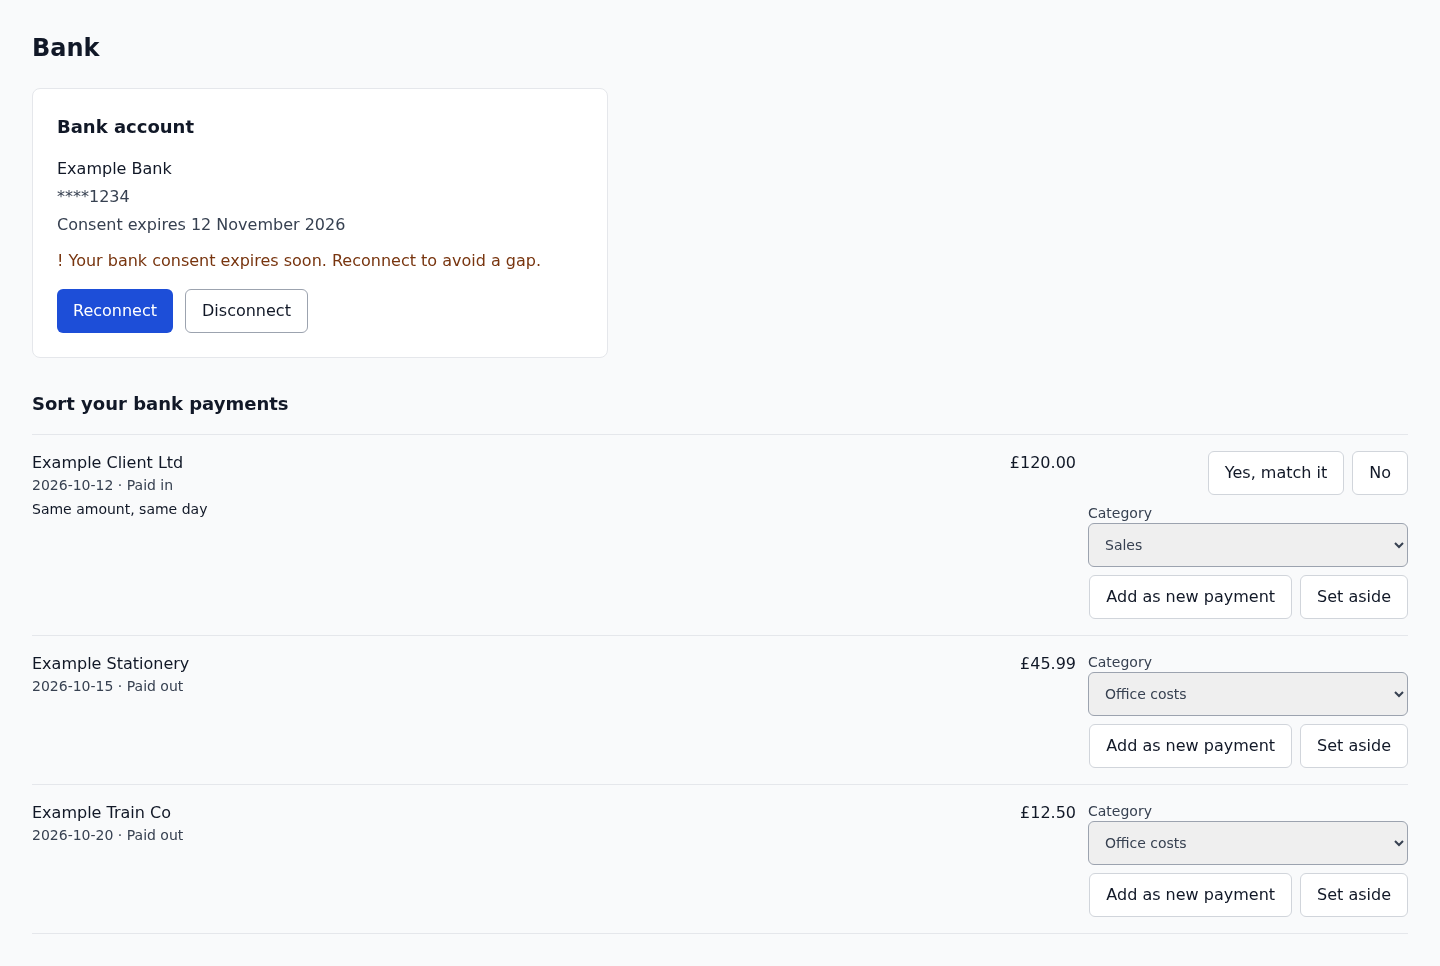
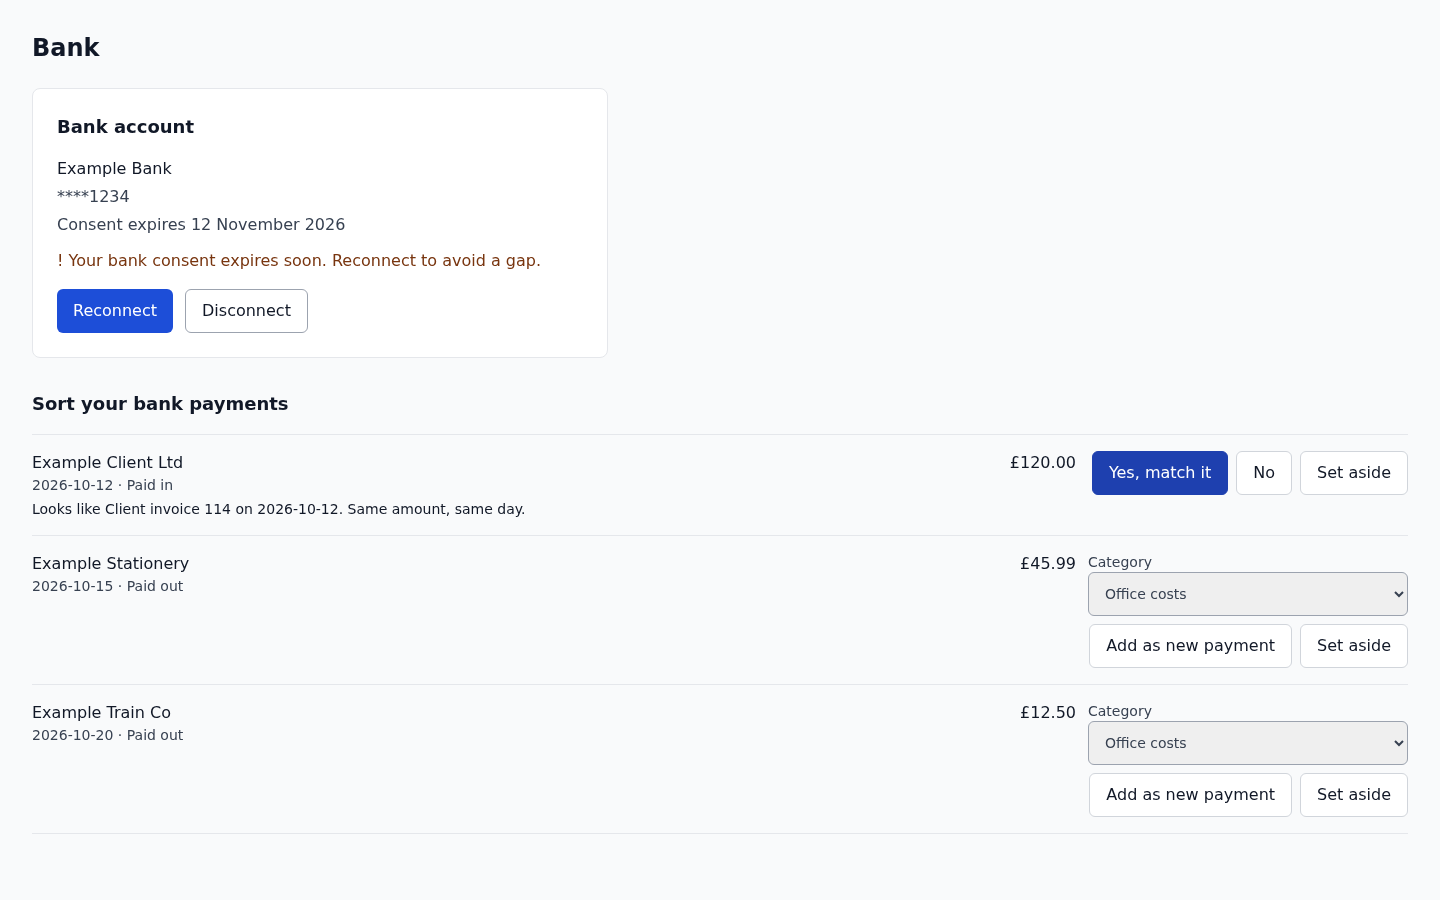
STF-38: address review findings (release lines on void, primary button, show suggested entry)

diff --git a/src/pages/BankSortSection.tsx b/src/pages/BankSortSection.tsx
@@ -1,13 +1,13 @@
 import { useMutation, useQuery, useQueryClient } from '@tanstack/react-query';
 import { useState } from 'react';
 import { fetchAccounts } from '../lib/accountsApi';
-import type { BankLine, MatchProposal } from '../lib/bankMatching';
-import { createDraftFromLine, dismissLine, fetchReconcile, matchLine, undismissLine, unmatchLine } from '../lib/bankReconcileApi';
+import type { BankLine } from '../lib/bankMatching';
+import { createDraftFromLine, dismissLine, fetchReconcile, matchLine, undismissLine, unmatchLine, type ProposalView } from '../lib/bankReconcileApi';
 import { formatPence } from '../lib/money';
 import StateMessage from '../components/StateMessage';
 
 const QUERY_KEY = ['bank-sort'];
-const REASONS: Record<MatchProposal['kind'], string> = {
+const REASONS: Record<ProposalView['kind'], string> = {
   exact: 'Same amount, same day',
   close: 'Same amount, a few days apart',
 };
@@ -19,7 +19,8 @@ interface Undoable {
 
 const buttonClass =
   'inline-flex min-h-11 min-w-11 items-center justify-center rounded-md border border-gray-300 bg-white px-4 text-gray-900 hover:bg-gray-50 focus-visible:outline focus-visible:outline-2 focus-visible:outline-offset-2 focus-visible:outline-blue-700 disabled:opacity-50';
-const primaryClass = buttonClass.replace('border-gray-300 bg-white text-gray-900 hover:bg-gray-50', 'border-blue-800 bg-blue-800 text-white hover:bg-blue-900');
+const primaryClass =
+  'inline-flex min-h-11 min-w-11 items-center justify-center rounded-md border border-blue-800 bg-blue-800 px-4 font-medium text-white hover:bg-blue-900 focus-visible:outline focus-visible:outline-2 focus-visible:outline-offset-2 focus-visible:outline-blue-700 disabled:opacity-50';
 const fieldClass = 'min-h-11 rounded-md border border-gray-400 px-3 focus-visible:outline focus-visible:outline-2 focus-visible:outline-offset-2 focus-visible:outline-blue-700';
 
 export default function BankSortSection() {
@@ -51,7 +52,7 @@ export default function BankSortSection() {
   const categoriesFor = (line: BankLine) => (accounts.data ?? []).filter((account) => account.accountType === (line.amountPence < 0 ? 'expense' : 'income'));
   const chosenCategory = (line: BankLine) => categoryFor[line.id] ?? categoriesFor(line)[0]?.id ?? '';
 
-  const accept = (line: BankLine, proposal: MatchProposal) =>
+  const accept = (line: BankLine, proposal: ProposalView) =>
     run.mutate({
       act: async () => {
         await matchLine(line.id, proposal.entryId);
@@ -104,7 +105,11 @@ export default function BankSortSection() {
                 <div className="min-w-0 sm:flex-1">
                   <p className="truncate font-medium text-gray-900" title={line.description}>{line.description}</p>
                   <p className="text-sm text-gray-700">{line.date} · {line.amountPence < 0 ? 'Paid out' : 'Paid in'}</p>
-                  {proposal && <p className="mt-1 text-sm text-gray-900">{REASONS[proposal.kind]}</p>}
+                  {proposal && (
+                    <p className="mt-1 text-sm text-gray-900">
+                      Looks like <span className="font-medium">{proposal.entryDescription}</span> on {proposal.entryDate}. {REASONS[proposal.kind]}.
+                    </p>
+                  )}
                 </div>
                 <p className="text-right tabular-nums font-medium text-gray-900 sm:w-28">{formatPence(Math.abs(line.amountPence))}</p>
                 <div className="flex flex-wrap gap-2 sm:w-80 sm:justify-end">
@@ -114,6 +119,7 @@ export default function BankSortSection() {
                       <button type="button" className={buttonClass} onClick={() => setPassed([...passed, line.id])}>No</button>
                     </>
                   )}
+                  {!proposal && (<>
                   <label className="flex w-full flex-col text-sm text-gray-700">
                     Category
                     <select className={fieldClass} value={chosenCategory(line)} onChange={(event) => setCategoryFor({ ...categoryFor, [line.id]: event.target.value })}>
@@ -121,6 +127,7 @@ export default function BankSortSection() {
                     </select>
                   </label>
                   <button type="button" className={buttonClass} disabled={run.isPending || !chosenCategory(line)} onClick={() => addNew(line)}>Add as new payment</button>
+                  </>)}
                   <button type="button" className={buttonClass} onClick={() => { setAsideFor(line.id); setReason(''); }}>Set aside</button>
                   {asideFor === line.id && (
                     <div className="flex w-full flex-col gap-2">

diff --git a/api/_lib/bankReconcile.ts b/api/_lib/bankReconcile.ts
@@ -23,7 +23,7 @@ export interface ReconcileStore {
   /** The owner's unmatched lines, oldest first, at most `limit`. */
   listOpenLines(userId: string, limit: number): Promise<BankLineView[]>;
   /** The owner's confirmed (not yet reconciled) entries dated from..to with their signed bank-account amount, at most `limit`. */
-  listConfirmedEntries(userId: string, from: string, to: string, limit: number): Promise<MatchableEntry[]>;
+  listConfirmedEntries(userId: string, from: string, to: string, limit: number): Promise<Array<MatchableEntry & { description: string }>>;
   /** The owner's line in any state; undefined when it is not theirs. */
   getLine(userId: string, lineId: string): Promise<(BankLineView & { status: string }) | undefined>;
   /** Line unmatched to matched and entry confirmed to reconciled, plus one bank.match audit event, in one transaction. */
@@ -60,11 +60,20 @@ export function entryWindow(lines: BankLineView[]): { from: string; to: string }
   return { from: shift(dates[0], -MATCH_WINDOW_DAYS), to: shift(dates[dates.length - 1], MATCH_WINDOW_DAYS) };
 }
 
-export async function getProposals(store: ReconcileStore, userId: string): Promise<{ lines: BankLineView[]; proposals: MatchProposal[] }> {
+export type ProposalView = MatchProposal & { entryDescription: string; entryDate: string };
+
+export async function getProposals(store: ReconcileStore, userId: string): Promise<{ lines: BankLineView[]; proposals: ProposalView[] }> {
   const lines = await store.listOpenLines(userId, OPEN_LINE_LIMIT);
   const window = entryWindow(lines);
   const entries = window ? await store.listConfirmedEntries(userId, window.from, window.to, WINDOW_ENTRY_LIMIT) : [];
-  return { lines, proposals: proposeMatches(lines, entries).proposals };
+  const byId = new Map(entries.map((entry) => [entry.id, entry]));
+  // Named so the owner can see what "Yes, match it" will match.
+  const proposals = proposeMatches(lines, entries).proposals.map((proposal) => ({
+    ...proposal,
+    entryDescription: byId.get(proposal.entryId)?.description ?? '',
+    entryDate: byId.get(proposal.entryId)?.date ?? '',
+  }));
+  return { lines, proposals };
 }
 
 const REFUSALS: Record<Exclude<ReconcileOutcome, 'ok'>, [number, string, string]> = {
@@ -207,15 +216,15 @@ export const databaseReconcileStore: ReconcileStore = {
 
   async listConfirmedEntries(userId, from, to, limit) {
     const rows = await db
-      .select({ id: transactions.id, date: transactions.date, grossPence: sql<string>`sum(${transactionLines.amountPence})` })
+      .select({ id: transactions.id, date: transactions.date, description: transactions.description, grossPence: sql<string>`sum(${transactionLines.amountPence})` })
       .from(transactions)
       .innerJoin(transactionLines, eq(transactionLines.transactionId, transactions.id))
       .innerJoin(accounts, and(eq(accounts.id, transactionLines.accountId), eq(accounts.userId, userId), eq(accounts.code, BANK_ACCOUNT_CODE)))
       .where(and(eq(transactions.userId, userId), eq(transactions.status, 'confirmed'), isNull(transactions.deletedAt), gte(transactions.date, from), lte(transactions.date, to)))
-      .groupBy(transactions.id, transactions.date)
+      .groupBy(transactions.id, transactions.date, transactions.description)
       .orderBy(asc(transactions.date), asc(transactions.id))
       .limit(limit);
-    return rows.map((row) => ({ id: row.id, date: row.date, grossPence: Number(row.grossPence) }));
+    return rows.map((row) => ({ id: row.id, date: row.date, description: row.description, grossPence: Number(row.grossPence) }));
   },
 
   async getLine(userId, id) {

diff --git a/api/_lib/__tests__/bankReconcileRoute.test.ts b/api/_lib/__tests__/bankReconcileRoute.test.ts
@@ -29,6 +29,7 @@ interface FakeLine extends BankLineView {
   dismissedReason: string | null;
 }
 interface FakeEntry extends MatchableEntry {
+  description: string;
   userId: string;
   status: 'draft' | 'confirmed' | 'reconciled' | 'voided';
 }
@@ -145,8 +146,8 @@ describe('bank reconcile route', () => {
       { id: OTHER_LINE, userId: 'rival', date: '2026-02-05', amountPence: -2400, description: 'RIVAL LINE', status: 'unmatched', matchedEntryId: null, dismissedReason: null },
     ];
     entries = [
-      { id: ENTRY, userId: 'owner', date: '2026-02-05', grossPence: -2400, status: 'confirmed' },
-      { id: OTHER_ENTRY, userId: 'rival', date: '2026-02-05', grossPence: -2400, status: 'confirmed' },
+      { id: ENTRY, userId: 'owner', date: '2026-02-05', description: 'Printer paper', grossPence: -2400, status: 'confirmed' },
+      { id: OTHER_ENTRY, userId: 'rival', date: '2026-02-05', description: 'Rival', grossPence: -2400, status: 'confirmed' },
     ];
     audits = [];
     created = [];
@@ -169,7 +170,7 @@ describe('bank reconcile route', () => {
   it('proposes matches for only the session owner', async () => {
     const body = await (await call('GET', undefined, 'owner')).json();
     expect(body.lines.map((line: { id: string }) => line.id)).toEqual([LINE]);
-    expect(body.proposals).toEqual([{ lineId: LINE, entryId: ENTRY, kind: 'exact' }]);
+    expect(body.proposals).toEqual([{ lineId: LINE, entryId: ENTRY, kind: 'exact', entryDescription: 'Printer paper', entryDate: '2026-02-05' }]);
   });
 
   it('match marks the line matched and the entry reconciled, with one audit event', async () => {
@@ -182,7 +183,7 @@ describe('bank reconcile route', () => {
 
   it('refuses to match a line that is already matched', async () => {
     await call('POST', { action: 'match', lineId: LINE, entryId: ENTRY }, 'owner');
-    entries.push({ id: id(13), userId: 'owner', date: '2026-02-05', grossPence: -2400, status: 'confirmed' });
+    entries.push({ id: id(13), userId: 'owner', date: '2026-02-05', description: 'Paper', grossPence: -2400, status: 'confirmed' });
     const response = await call('POST', { action: 'match', lineId: LINE, entryId: id(13) }, 'owner');
     expect(response.status).toBe(409);
     expect(audits).toHaveLength(1);

diff --git a/src/pages/BankSortSection.test.tsx b/src/pages/BankSortSection.test.tsx
@@ -13,7 +13,7 @@ vi.mock('../lib/accountsApi', async (importOriginal) => ({ ...(await importOrigi
 const line = { id: 'l1', date: '2026-10-03', amountPence: -1250, description: 'COFFEE SUPPLIES' };
 const withLine = (kind: 'exact' | 'close' | null) => ({
   lines: [line],
-  proposals: kind ? [{ lineId: 'l1', entryId: 'e1', kind }] : [],
+  proposals: kind ? [{ lineId: 'l1', entryId: 'e1', kind, entryDescription: 'Coffee beans', entryDate: '2026-10-03' }] : [],
 });
 
 function renderSection() {
@@ -42,8 +42,11 @@ describe('BankSortSection', () => {
   it('shows a suggested match with its reason, and matches in one tap', async () => {
     vi.mocked(fetchReconcile).mockResolvedValue(withLine('exact'));
     renderSection();
-    expect(await screen.findByText('Same amount, same day')).toBeInTheDocument();
+    expect(await screen.findByText('Coffee beans')).toBeInTheDocument();
+    expect(screen.getByText(/Same amount, same day/)).toBeInTheDocument();
     expect(screen.getByText('£12.50')).toBeInTheDocument();
+    expect(screen.queryByRole('button', { name: 'Add as new payment' })).toBeNull();
+    expect(screen.getByRole('button', { name: 'Yes, match it' }).className).toContain('bg-blue-800');
     fireEvent.click(screen.getByRole('button', { name: 'Yes, match it' }));
     await waitFor(() => expect(matchLine).toHaveBeenCalledTimes(1));
     expect(matchLine).toHaveBeenCalledWith('l1', 'e1');
@@ -53,9 +56,10 @@ describe('BankSortSection', () => {
   it('says close matches are a few days apart, and hides a suggestion on No', async () => {
     vi.mocked(fetchReconcile).mockResolvedValue(withLine('close'));
     renderSection();
-    expect(await screen.findByText('Same amount, a few days apart')).toBeInTheDocument();
+    expect(await screen.findByText(/Same amount, a few days apart/)).toBeInTheDocument();
     fireEvent.click(screen.getByRole('button', { name: 'No' }));
     expect(screen.queryByRole('button', { name: 'Yes, match it' })).toBeNull();
+    expect(screen.getByRole('button', { name: 'Add as new payment' })).toBeInTheDocument();
     expect(matchLine).not.toHaveBeenCalled();
   });
 

diff --git a/api/_lib/entries.ts b/api/_lib/entries.ts
@@ -4,6 +4,7 @@ import { z } from 'zod';
 import {
   accounts,
   auditEvents,
+  bankTransactions,
   invoices,
   receipts,
   transactionLines,
@@ -321,7 +322,30 @@ export async function voidLiveEntry(executor: Executor, userId: string, entryId:
     .set({ status: 'voided', deletedAt: now, updatedAt: now })
     .where(and(eq(transactions.id, entryId), eq(transactions.userId, userId), isNull(transactions.deletedAt)))
     .returning({ id: transactions.id });
-  return voided.length ? before : undefined;
+  if (!voided.length) return undefined;
+  await releaseBankLines(executor, userId, entryId);
+  return before;
+}
+
+/** A voided entry must not keep a bank line hidden as matched: put the line back in the owner's open list, audited. */
+export async function releaseBankLines(executor: Executor, userId: string, entryId: string): Promise<void> {
+  const released = await executor
+    .update(bankTransactions)
+    .set({ status: 'unmatched', matchedTransactionId: null })
+    .where(and(eq(bankTransactions.matchedTransactionId, entryId), eq(bankTransactions.status, 'matched')))
+    .returning({ id: bankTransactions.id });
+  if (!released.length) return;
+  await executor.insert(auditEvents).values(
+    released.map((line) => ({
+      userId,
+      actorType: 'user' as const,
+      action: 'bank.release',
+      resourceType: 'bank_transaction',
+      resourceId: line.id,
+      beforeSnapshot: { status: 'matched', matchedTransactionId: entryId },
+      afterSnapshot: { status: 'unmatched', matchedTransactionId: null },
+    })),
+  );
 }
 
 // Query audit: transactions are read by primary key and user_id; lines by the transaction_id foreign key

diff --git a/api/_lib/__tests__/releaseBankLines.test.ts b/api/_lib/__tests__/releaseBankLines.test.ts
@@ -1,0 +1,27 @@
+import { describe, expect, it } from 'vitest';
+
+import { releaseBankLines, type Executor } from '../entries';
+
+function fakeExecutor(releasedIds: string[]) {
+  const audits: unknown[] = [];
+  const executor = {
+    update: () => ({ set: () => ({ where: () => ({ returning: async () => releasedIds.map((id) => ({ id })) }) }) }),
+    insert: () => ({ values: async (rows: unknown) => void audits.push(rows) }),
+  } as unknown as Executor;
+  return { executor, audits };
+}
+
+describe('releaseBankLines', () => {
+  it('audits each bank line put back in the open list when its entry is voided', async () => {
+    const { executor, audits } = fakeExecutor(['line-1']);
+    await releaseBankLines(executor, 'user-1', 'entry-1');
+    expect(audits).toHaveLength(1);
+    expect(audits[0]).toMatchObject([{ userId: 'user-1', action: 'bank.release', resourceId: 'line-1' }]);
+  });
+
+  it('writes no audit event when no line pointed at the entry', async () => {
+    const { executor, audits } = fakeExecutor([]);
+    await releaseBankLines(executor, 'user-1', 'entry-1');
+    expect(audits).toHaveLength(0);
+  });
+});

diff --git a/e2e/mockApi.ts b/e2e/mockApi.ts
@@ -220,7 +220,7 @@ export async function mockApi(page: Page, ownerPassword: string, vatState: MockV
         bankConnected = true;
         return json(route, { url: '/setup' });
       case 'GET /api/bank/reconcile':
-        return json(route, { lines: unsortedBankLines, proposals: unsortedBankLines.some((line) => line.id === 'line-1') ? [{ lineId: 'line-1', entryId: 'entry-1', kind: 'exact' }] : [] });
+        return json(route, { lines: unsortedBankLines, proposals: unsortedBankLines.some((line) => line.id === 'line-1') ? [{ lineId: 'line-1', entryId: 'entry-1', kind: 'exact', entryDescription: 'Client invoice 114', entryDate: '2026-10-12' }] : [] });
       case 'POST /api/bank/reconcile': {
         const { action, lineId } = request.postDataJSON();
         if (action === 'match' || action === 'dismiss' || action === 'createEntry') unsortedBankLines = unsortedBankLines.filter((line) => line.id !== lineId);

diff --git a/src/lib/bankReconcileApi.ts b/src/lib/bankReconcileApi.ts
@@ -1,8 +1,10 @@
 import type { BankLine, MatchProposal } from './bankMatching';
 
+export type ProposalView = MatchProposal & { entryDescription: string; entryDate: string };
+
 export interface SortData {
   lines: BankLine[];
-  proposals: MatchProposal[];
+  proposals: ProposalView[];
 }
 
 type SortAction =
